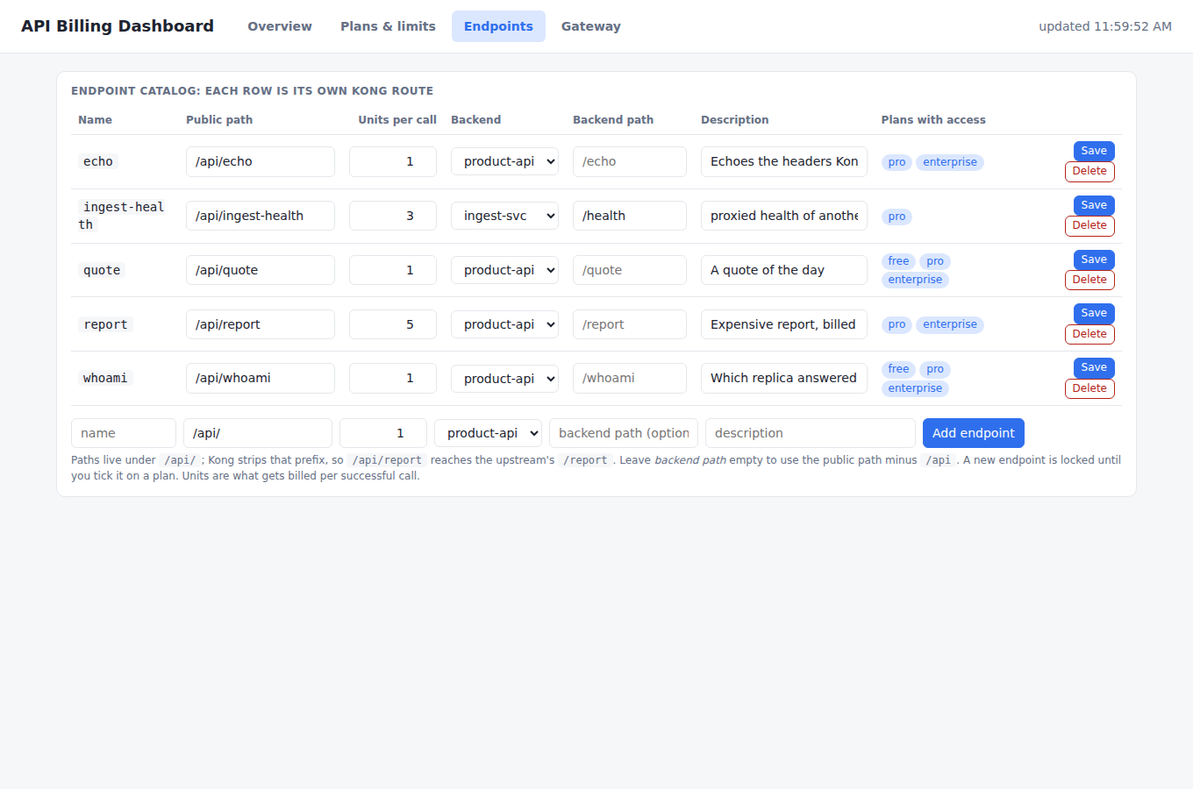
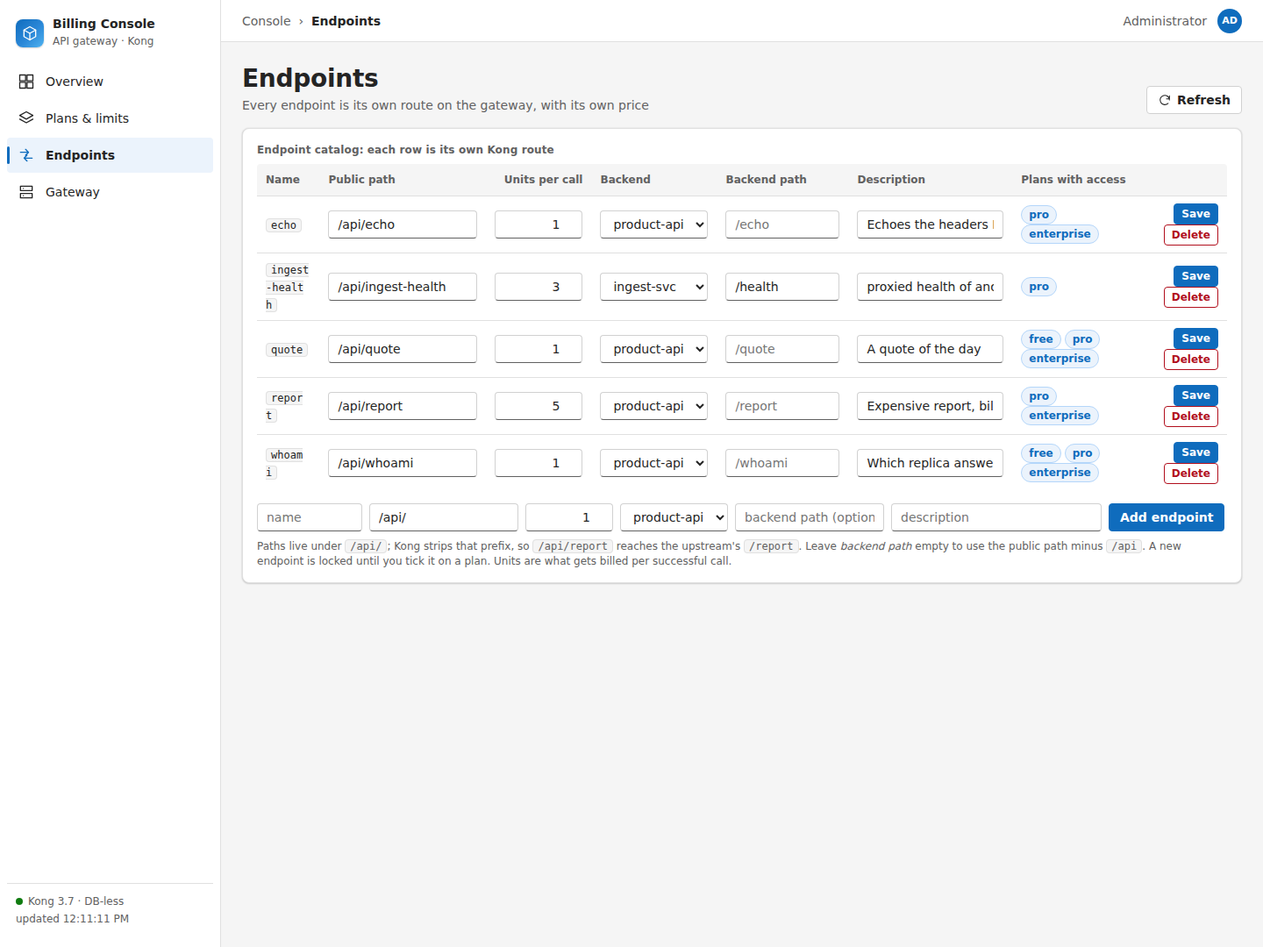
Dashboard: Fluent-inspired UI redesign (nav rail, command bar, toasts, light/dark)
- App shell with left navigation rail, top bar with breadcrumbs, page header + command bar
- Fluent-style design tokens (light and dark), data grids, persona avatars, badges, progress bars
- Toast message bars replace the top banners; responsive rail collapses to a strip on narrow screens
- Vue logic unchanged; README screenshots regenerated (adds dark theme) and design notes added

Claude-Session: https://claude.ai/code/session_01F8CYcSadj43JQgc1H9fXj5

diff --git a/services/dashboard/public/index.html b/services/dashboard/public/index.html
@@ -5,94 +5,209 @@
 <meta name="viewport" content="width=device-width, initial-scale=1">
 <title>API Billing Dashboard</title>
 <style>
+  /* Fluent-inspired design tokens (own implementation; no Microsoft assets). Light + dark. */
   :root {
-    --bg: #f6f7f9; --card: #fff; --ink: #1c2330; --muted: #667085; --line: #e4e7ec;
-    --accent: #2f6fed; --accent-soft: #dbe7ff; --ok: #16803c; --warn: #b54708; --bad: #b42318;
+    --font: "Segoe UI Variable Text", "Segoe UI", system-ui, -apple-system, "Helvetica Neue", Arial, sans-serif;
+    --bg: #f5f5f5; --card: #ffffff; --ink: #242424; --muted: #616161; --line: #e0e0e0; --line-strong: #d1d1d1;
+    --accent: #0f6cbd; --accent-hover: #115ea3; --accent-press: #0c3b5e; --accent-soft: #ebf3fc; --accent-line: #b4d6fa;
+    --ok: #107c10; --ok-bg: #f1faf1; --warn: #bc4b09; --warn-bg: #fff9f5; --bad: #b10e1c; --bad-bg: #fdf3f4;
+    --shadow: 0 0 2px rgba(0,0,0,.12), 0 1px 2px rgba(0,0,0,.14);
+    --shadow-pop: 0 0 8px rgba(0,0,0,.12), 0 8px 16px rgba(0,0,0,.14);
+    --r: 4px; --r-lg: 8px;
   }
   @media (prefers-color-scheme: dark) {
     :root {
-      --bg: #10131a; --card: #181c25; --ink: #e6e9f0; --muted: #98a2b3; --line: #2a303c;
-      --accent: #6d9bff; --accent-soft: #24345c; --ok: #4ade80; --warn: #fbbf24; --bad: #f87171;
+      --bg: #1f1f1f; --card: #292929; --ink: #ffffff; --muted: #adadad; --line: #3d3d3d; --line-strong: #525252;
+      --accent: #479ef5; --accent-hover: #62abf5; --accent-press: #2886de; --accent-soft: #0f2a44; --accent-line: #1d4b78;
+      --ok: #54b054; --ok-bg: #0e2a0e; --warn: #f7630c; --warn-bg: #3a1d0d; --bad: #dc626d; --bad-bg: #3b1214;
+      --shadow: 0 0 2px rgba(0,0,0,.24), 0 1px 2px rgba(0,0,0,.28);
+      --shadow-pop: 0 0 8px rgba(0,0,0,.3), 0 8px 16px rgba(0,0,0,.36);
     }
   }
   [v-cloak] { display: none; }
   * { box-sizing: border-box; }
-  body { margin: 0; background: var(--bg); color: var(--ink); font: 14px/1.45 system-ui, sans-serif; }
-  header { display: flex; flex-wrap: wrap; gap: 12px 24px; align-items: center; padding: 12px 24px; border-bottom: 1px solid var(--line); background: var(--card); }
-  h1 { font-size: 18px; margin: 0; }
-  h2 { font-size: 12px; margin: 0 0 8px; color: var(--muted); text-transform: uppercase; letter-spacing: .04em; }
-  h3 { font-size: 15px; margin: 0; }
-  main { padding: 20px 24px; max-width: 1280px; margin: 0 auto; }
-  .spacer { flex: 1; }
+  html { -webkit-text-size-adjust: 100%; }
+  body { margin: 0; background: var(--bg); color: var(--ink); font: 14px/20px var(--font); }
+  h1, h2, h3 { margin: 0; font-weight: 600; }
+  h2 { font-size: 12px; line-height: 16px; margin: 0 0 8px; color: var(--muted); letter-spacing: .01em; }
+  h3 { font-size: 16px; line-height: 22px; }
   .muted { color: var(--muted); }
-  nav { display: flex; gap: 4px; }
-  nav button { border: 0; background: none; padding: 8px 14px; border-radius: 6px; font-weight: 600; color: var(--muted); }
-  nav button.on { background: var(--accent-soft); color: var(--accent); }
-  .kpis { display: grid; grid-template-columns: repeat(auto-fit, minmax(170px, 1fr)); gap: 12px; margin-bottom: 16px; }
-  .card { background: var(--card); border: 1px solid var(--line); border-radius: 10px; padding: 14px 16px; }
-  .kpi b { display: block; font-size: 26px; font-variant-numeric: tabular-nums; }
-  .layout { display: grid; grid-template-columns: minmax(320px, 5fr) 7fr; gap: 16px; align-items: start; }
-  @media (max-width: 900px) { .layout { grid-template-columns: 1fr; } }
+  .spacer { flex: 1; }
+  code { background: var(--bg); border: 1px solid var(--line); padding: 0 5px; border-radius: var(--r); font: 12px/18px ui-monospace, "Cascadia Code", Consolas, monospace; word-break: break-all; }
+  :focus-visible { outline: 2px solid var(--accent); outline-offset: 1px; }
+
+  /* ---- app shell: left navigation rail + content ---- */
+  .shell { display: grid; grid-template-columns: 252px minmax(0, 1fr); min-height: 100vh; }
+  .rail { position: sticky; top: 0; height: 100vh; background: var(--card); border-right: 1px solid var(--line); display: flex; flex-direction: column; padding: 12px 8px; }
+  .brand { display: flex; gap: 10px; align-items: center; padding: 6px 10px 16px; }
+  .brand .mark { width: 32px; height: 32px; border-radius: 8px; display: grid; place-items: center; color: #fff; background: linear-gradient(135deg, #0f6cbd, #2b88d8 55%, #4fb3f0); box-shadow: var(--shadow); }
+  .brand b { display: block; font-size: 14px; line-height: 18px; }
+  .brand span { font-size: 12px; color: var(--muted); }
+  .rail nav { display: flex; flex-direction: column; gap: 2px; }
+  .navitem { position: relative; display: flex; align-items: center; gap: 12px; height: 40px; padding: 0 12px; border: 0; border-radius: var(--r); background: none; color: var(--ink); font: inherit; text-align: left; cursor: pointer; }
+  .navitem { white-space: nowrap; flex: none; }
+  .navitem:hover { background: var(--bg); }
+  .navitem.on { background: var(--accent-soft); font-weight: 600; }
+  .navitem.on::before { content: ""; position: absolute; left: 0; top: 10px; bottom: 10px; width: 3px; border-radius: 2px; background: var(--accent); }
+  .navitem.on .ic { color: var(--accent); }
+  .ic { width: 20px; height: 20px; flex: none; fill: none; stroke: currentColor; stroke-width: 1.6; stroke-linecap: round; stroke-linejoin: round; }
+  .railfoot { margin-top: auto; padding: 10px; font-size: 12px; color: var(--muted); border-top: 1px solid var(--line); }
+  .railfoot i { display: inline-block; width: 8px; height: 8px; border-radius: 50%; background: var(--ok); margin-right: 6px; }
+
+  .content { min-width: 0; }
+  .topbar { position: sticky; top: 0; z-index: 20; display: flex; align-items: center; gap: 12px; height: 48px; padding: 0 24px; background: var(--card); border-bottom: 1px solid var(--line); }
+  .crumbs { color: var(--muted); }
+  .crumbs b { color: var(--ink); font-weight: 600; }
+  main { padding: 0 24px 32px; max-width: 1400px; margin: 0 auto; }
+  .pagehead { display: flex; flex-wrap: wrap; gap: 8px 16px; align-items: flex-end; padding: 24px 0 16px; }
+  .pagehead h1 { font-size: 28px; line-height: 36px; letter-spacing: -.01em; }
+  .pagehead p { margin: 2px 0 0; color: var(--muted); }
+  .cmdbar { display: flex; flex-wrap: wrap; gap: 8px; align-items: center; }
+
+  /* ---- surfaces ---- */
+  .card { background: var(--card); border: 1px solid var(--line); border-radius: var(--r-lg); padding: 16px; box-shadow: var(--shadow); }
+  .stack > * + * { margin-top: 16px; }
+  .row { display: flex; flex-wrap: wrap; gap: 8px; align-items: center; }
+  .kpis { display: grid; grid-template-columns: repeat(auto-fit, minmax(210px, 1fr)); gap: 12px; margin-bottom: 16px; }
+  .kpi { display: flex; gap: 14px; align-items: center; }
+  .kpi .kic { width: 40px; height: 40px; border-radius: var(--r-lg); background: var(--accent-soft); color: var(--accent); display: grid; place-items: center; flex: none; }
+  .kpi .muted { display: block; font-size: 12px; line-height: 16px; }
+  .kpi b { display: block; font-size: 26px; line-height: 32px; font-weight: 600; font-variant-numeric: tabular-nums; }
+  .layout { display: grid; grid-template-columns: minmax(340px, 5fr) 7fr; gap: 16px; align-items: start; }
+  @media (max-width: 1000px) { .layout { grid-template-columns: 1fr; } }
+  .hint { font-size: 12px; line-height: 16px; color: var(--muted); margin: 8px 0 0; }
+  .empty { padding: 28px; text-align: center; color: var(--muted); }
+
+  /* ---- data grid ---- */
   table { width: 100%; border-collapse: collapse; }
-  th, td { text-align: left; padding: 7px 8px; border-bottom: 1px solid var(--line); font-variant-numeric: tabular-nums; vertical-align: middle; }
-  th { font-size: 12px; color: var(--muted); font-weight: 600; }
+  th, td { text-align: left; padding: 8px 10px; border-bottom: 1px solid var(--line); font-variant-numeric: tabular-nums; vertical-align: middle; }
+  th { font-size: 12px; font-weight: 600; color: var(--muted); background: var(--bg); white-space: nowrap; }
+  thead th:first-child { border-top-left-radius: var(--r); } thead th:last-child { border-top-right-radius: var(--r); }
+  tbody tr:last-child td { border-bottom: 0; }
   td.num, th.num { text-align: right; }
   tr.sub { cursor: pointer; }
-  tr.sub:hover, tr.sel { background: var(--accent-soft); }
-  .pill { display: inline-block; padding: 1px 8px; border-radius: 99px; font-size: 12px; background: var(--accent-soft); color: var(--accent); }
-  .pill.off { background: var(--line); color: var(--muted); }
-  .meter { height: 8px; border-radius: 4px; background: var(--line); overflow: hidden; }
-  .meter > i { display: block; height: 100%; background: var(--accent); }
+  tr.sub:hover td { background: var(--bg); }
+  tr.sel td { background: var(--accent-soft) !important; }
+  tr.sel td:first-child { box-shadow: inset 3px 0 0 var(--accent); }
+  .who { display: flex; align-items: center; gap: 10px; border-bottom: 0; }
+  td.whotd { padding: 6px 10px; }
+
+  /* ---- persona avatar, badge, progress ---- */
+  .avatar { display: inline-grid; place-items: center; width: 28px; height: 28px; border-radius: 50%; color: #fff; font-size: 11px; font-weight: 600; flex: none; }
+  .avatar.lg { width: 44px; height: 44px; font-size: 15px; }
+  .name { font-size: 20px; line-height: 28px; font-weight: 600; }
+  .pill { display: inline-block; padding: 0 8px; border-radius: 999px; font-size: 12px; line-height: 20px; font-weight: 600; background: var(--accent-soft); color: var(--accent); border: 1px solid var(--accent-line); }
+  .pill.off { background: var(--bg); color: var(--muted); border-color: var(--line); }
+  .meter { height: 4px; border-radius: 2px; background: var(--line); overflow: hidden; }
+  .meter > i { display: block; height: 100%; background: var(--accent); border-radius: 2px; }
   .meter.hot > i { background: var(--warn); }
-  input, select, button { font: inherit; padding: 6px 10px; border: 1px solid var(--line); border-radius: 6px; background: var(--card); color: var(--ink); }
-  input[type=checkbox] { padding: 0; }
-  button { cursor: pointer; }
-  button.primary { background: var(--accent); border-color: var(--accent); color: #fff; }
-  button.danger { color: var(--bad); border-color: var(--bad); }
-  button.small { padding: 2px 8px; font-size: 12px; }
-  button:disabled { opacity: .5; cursor: default; }
+  .s2xx { color: var(--ok); font-weight: 600; } .s4xx { color: var(--warn); font-weight: 600; } .s5xx { color: var(--bad); font-weight: 600; }
+
+  /* ---- buttons & inputs ---- */
+  input, select, textarea, button { font: inherit; color: var(--ink); }
+  input, select, textarea { height: 32px; padding: 0 10px; background: var(--card); border: 1px solid var(--line-strong); border-bottom-color: var(--muted); border-radius: var(--r); }
+  textarea { height: auto; padding: 6px 10px; }
+  input:hover, select:hover, textarea:hover { border-color: var(--muted); }
+  input:focus, select:focus, textarea:focus { outline: none; border-color: var(--line-strong); border-bottom: 2px solid var(--accent); padding-bottom: 0; }
+  input[type=checkbox] { height: 16px; width: 16px; accent-color: var(--accent); }
   input.n { width: 100px; text-align: right; }
-  .row { display: flex; flex-wrap: wrap; gap: 8px; align-items: center; }
-  .stack > * + * { margin-top: 16px; }
-  code { background: var(--bg); padding: 1px 6px; border-radius: 4px; word-break: break-all; }
-  .s2xx { color: var(--ok); } .s4xx { color: var(--warn); } .s5xx { color: var(--bad); }
-  .err { background: var(--bad); color: #fff; padding: 8px 24px; cursor: pointer; }
-  .ok { background: var(--ok); color: #fff; padding: 8px 24px; }
+  button { height: 32px; padding: 0 12px; background: var(--card); border: 1px solid var(--line-strong); border-radius: var(--r); font-weight: 600; cursor: pointer; display: inline-flex; align-items: center; gap: 6px; }
+  button:hover { background: var(--bg); border-color: var(--muted); }
+  button:active { background: var(--line); }
+  button.primary { background: var(--accent); border-color: var(--accent); color: #fff; }
+  @media (prefers-color-scheme: dark) { button.primary { background: #115ea3; border-color: #115ea3; } button.primary:hover { background: #0f548c; } }
+  button.primary:hover { background: var(--accent-hover); border-color: var(--accent-hover); }
+  button.primary:active { background: var(--accent-press); }
+  button.danger { color: var(--bad); border-color: var(--bad); background: transparent; }
+  button.danger:hover { background: var(--bad-bg); }
+  button.small { height: 24px; padding: 0 8px; font-size: 12px; }
+  button.subtle { border-color: transparent; background: transparent; }
+  button.subtle:hover { background: var(--bg); }
+  button:disabled { opacity: .45; cursor: default; pointer-events: none; }
+  .grid2 { display: grid; grid-template-columns: 1fr 1fr; gap: 8px 12px; }
+  .grid2 label { display: flex; flex-direction: column; gap: 4px; font-size: 12px; color: var(--muted); }
+  .grid2 input { width: 100%; text-align: left; }
+  .checks label { display: flex; gap: 8px; align-items: center; padding: 4px 0; }
+  fieldset { border: 1px solid var(--line); border-radius: var(--r-lg); margin: 12px 0 0; padding: 8px 12px 12px; }
+  legend { font-size: 12px; font-weight: 600; color: var(--muted); padding: 0 6px; }
+  .plans { display: grid; grid-template-columns: repeat(auto-fill, minmax(370px, 1fr)); gap: 16px; }
+
+  /* ---- message bars (toasts) ---- */
+  .toasts { position: fixed; top: 58px; right: 16px; z-index: 60; display: flex; flex-direction: column; gap: 8px; width: min(440px, calc(100vw - 32px)); }
+  .msg { display: flex; gap: 10px; align-items: flex-start; padding: 10px 12px; border-radius: var(--r-lg); border: 1px solid; box-shadow: var(--shadow-pop); background: var(--card); }
+  .msg.err { border-color: var(--bad); background: var(--bad-bg); }
+  .msg.err .ic { color: var(--bad); }
+  .msg.ok { border-color: var(--ok); background: var(--ok-bg); }
+  .msg.ok .ic { color: var(--ok); }
+  .msg span { flex: 1; word-break: break-word; }
   svg text { fill: var(--muted); font-size: 10px; }
   svg .bar { fill: var(--accent); }
-  .empty { padding: 24px; text-align: center; color: var(--muted); }
-  .plans { display: grid; grid-template-columns: repeat(auto-fill, minmax(360px, 1fr)); gap: 16px; }
-  .grid2 { display: grid; grid-template-columns: 1fr 1fr; gap: 8px 12px; }
-  .grid2 label { display: flex; flex-direction: column; gap: 2px; font-size: 12px; color: var(--muted); }
-  .grid2 input { width: 100%; text-align: left; }
-  .checks label { display: flex; gap: 8px; align-items: center; padding: 3px 0; }
-  fieldset { border: 1px solid var(--line); border-radius: 8px; margin: 12px 0 0; padding: 8px 12px 10px; }
-  legend { font-size: 12px; color: var(--muted); padding: 0 4px; }
-  .hint { font-size: 12px; color: var(--muted); margin: 6px 0 0; }
+  svg .bar:hover { fill: var(--accent-hover); }
+  pre { margin: 0; }
+
+  /* ---- narrow screens: rail becomes a top strip ---- */
+  @media (max-width: 860px) {
+    .shell { grid-template-columns: 1fr; }
+    .rail { position: static; height: auto; flex-direction: row; align-items: center; padding: 6px 8px; overflow-x: auto; border-right: 0; border-bottom: 1px solid var(--line); }
+    .brand { padding: 0 8px; } .brand span, .railfoot { display: none; }
+    .rail nav { flex-direction: row; }
+    .navitem.on::before { left: 10px; right: 10px; top: auto; bottom: 0; width: auto; height: 3px; }
+    .topbar { display: none; } main { padding: 0 12px 24px; }
+    .card { overflow-x: auto; }
+  }
 </style>
 </head>
 <body>
 <div id="app" v-cloak>
-  <div class="err" v-if="error" @click="error = ''" title="click to dismiss">{{ error }}</div>
-  <div class="ok" v-if="notice">{{ notice }}</div>
-  <header>
-    <h1>API Billing Dashboard</h1>
-    <nav>
-      <button v-for="t in tabs" :key="t.id" :class="{ on: tab === t.id }" @click="go(t.id)">{{ t.label }}</button>
-    </nav>
+  <div class="toasts">
+    <div class="msg err" v-if="error" role="alert">
+      <svg class="ic" viewBox="0 0 24 24"><circle cx="12" cy="12" r="9"/><path d="M12 7.5v5.5M12 16.5h.01"/></svg>
+      <span>{{ error }}</span><button class="small subtle" @click="error = ''" aria-label="Dismiss">✕</button>
+    </div>
+    <div class="msg ok" v-if="notice" role="status">
+      <svg class="ic" viewBox="0 0 24 24"><circle cx="12" cy="12" r="9"/><path d="M8 12.5l2.7 2.7L16 9.5"/></svg>
+      <span>{{ notice }}</span>
+    </div>
+  </div>
+
+  <div class="shell">
+    <aside class="rail">
+      <div class="brand">
+        <div class="mark"><svg class="ic" viewBox="0 0 24 24" style="stroke:#fff"><path d="M12 3l8 4.5v9L12 21l-8-4.5v-9z"/><path d="M12 12l8-4.5M12 12v9M12 12L4 7.5"/></svg></div>
+        <div><b>Billing Console</b><span>API gateway · Kong</span></div>
+      </div>
+      <nav aria-label="Sections">
+        <button v-for="t in tabs" :key="t.id" class="navitem" :class="{ on: tab === t.id }" @click="go(t.id)" :aria-current="tab === t.id ? 'page' : null">
+          <svg class="ic" viewBox="0 0 24 24"><path :d="t.icon"/></svg>{{ t.label }}
+        </button>
+      </nav>
+      <div class="railfoot"><i></i>Kong 3.7 · DB-less<br>{{ updated || 'connecting…' }}</div>
+    </aside>
+
+    <div class="content">
+  <div class="topbar">
+    <span class="crumbs">Console &nbsp;›&nbsp; <b>{{ page.title }}</b></span>
     <span class="spacer"></span>
-    <label v-if="tab === 'overview'">Month <input type="month" v-model="month" @change="loadOverview"></label>
-    <span class="muted">{{ updated }}</span>
-  </header>
+    <span class="muted">Administrator</span>
+    <span class="avatar" style="background:#0f6cbd">AD</span>
+  </div>
 
   <main>
+    <div class="pagehead">
+      <div><h1>{{ page.title }}</h1><p>{{ page.sub }}</p></div>
+      <span class="spacer"></span>
+      <div class="cmdbar">
+        <label v-if="tab === 'overview'" class="row muted">Month <input type="month" v-model="month" @change="loadOverview"></label>
+        <button @click="refreshAll"><svg class="ic" viewBox="0 0 24 24" style="width:16px;height:16px"><path d="M20 12a8 8 0 10-2.3 5.7M20 5v5h-5"/></svg>Refresh</button>
+      </div>
+    </div>
     <!-- ============================ OVERVIEW ============================ -->
     <template v-if="tab === 'overview'">
       <div class="kpis">
-        <div class="card kpi"><span class="muted">Subscribers</span><b>{{ fmt(totals.subscribers) }}</b></div>
-        <div class="card kpi"><span class="muted">API calls</span><b>{{ fmt(totals.calls) }}</b></div>
-        <div class="card kpi"><span class="muted">Billable units</span><b>{{ fmt(totals.units) }}</b></div>
-        <div class="card kpi"><span class="muted">Invoiced this month</span><b>{{ money(totals.revenue_cents) }}</b></div>
+        <div class="card kpi"><span class="kic"><svg class="ic" viewBox="0 0 24 24"><path d="M16 19v-1a4 4 0 00-4-4H7a4 4 0 00-4 4v1M9.5 10a3.5 3.5 0 100-7 3.5 3.5 0 000 7M21 19v-1a4 4 0 00-3-3.9M15.5 3.2a3.5 3.5 0 010 6.6"/></svg></span><div><span class="muted">Subscribers</span><b>{{ fmt(totals.subscribers) }}</b></div></div>
+        <div class="card kpi"><span class="kic"><svg class="ic" viewBox="0 0 24 24"><path d="M3 12h4l3-8 4 16 3-8h4"/></svg></span><div><span class="muted">API calls</span><b>{{ fmt(totals.calls) }}</b></div></div>
+        <div class="card kpi"><span class="kic"><svg class="ic" viewBox="0 0 24 24"><path d="M12 3l8 4.5v9L12 21l-8-4.5v-9z"/><path d="M12 12l8-4.5M12 12v9M12 12L4 7.5"/></svg></span><div><span class="muted">Billable units</span><b>{{ fmt(totals.units) }}</b></div></div>
+        <div class="card kpi"><span class="kic"><svg class="ic" viewBox="0 0 24 24"><rect x="3" y="6" width="18" height="12" rx="2"/><circle cx="12" cy="12" r="2.5"/><path d="M6.5 12h.01M17.5 12h.01"/></svg></span><div><span class="muted">Invoiced this month</span><b>{{ money(totals.revenue_cents) }}</b></div></div>
       </div>
       <div class="layout">
         <div class="stack">
@@ -102,7 +217,7 @@
               <thead><tr><th>Name</th><th>Plan</th><th class="num">Units</th><th style="width:90px">Allowance</th><th class="num">Invoice</th></tr></thead>
               <tbody>
                 <tr v-for="r in rows" :key="r.name" class="sub" :class="{ sel: r.name === selected }" @click="select(r.name)">
-                  <td>{{ r.name }}</td>
+                  <td class="whotd"><div class="who"><span class="avatar" :style="avatarStyle(r.name)">{{ initials(r.name) }}</span>{{ r.name }}</div></td>
                   <td><span class="pill">{{ r.plan }}</span></td>
                   <td class="num">{{ fmt(r.units) }}</td>
                   <td><div class="meter" :class="{ hot: r.percent_used >= 80 }" :title="r.percent_used + '% of ' + fmt(r.included)"><i :style="{ width: Math.min(r.percent_used, 100) + '%' }"></i></div></td>
@@ -126,7 +241,8 @@
         <section class="card" v-if="detail">
           <div class="stack">
             <div class="row">
-              <h1>{{ detail.name }}</h1>
+              <span class="avatar lg" :style="avatarStyle(detail.name)">{{ initials(detail.name) }}</span>
+              <h3 class="name">{{ detail.name }}</h3>
               <select :value="detail.plan" @change="changePlan(detail.name, $event.target.value)">
                 <option v-for="p in plans" :key="p.name" :value="p.name">{{ p.name }}</option>
               </select>
@@ -336,6 +452,8 @@
       </section>
     </template>
   </main>
+    </div>
+  </div>
 </div>
 
 <script src="https://unpkg.com/vue@3.4.38/dist/vue.global.prod.js"></script>
@@ -356,7 +474,15 @@ if (!window.Vue) {
 
   createApp({
     setup() {
-      const tabs = [{ id: "overview", label: "Overview" }, { id: "plans", label: "Plans & limits" }, { id: "endpoints", label: "Endpoints" }, { id: "gateway", label: "Gateway" }];
+      const tabs = [
+        { id: "overview", label: "Overview", icon: "M3 3h8v8H3zM13 3h8v8h-8zM3 13h8v8H3zM13 13h8v8h-8z", title: "Overview", sub: "Usage, invoices and API keys for every subscriber" },
+        { id: "plans", label: "Plans & limits", icon: "M12 3l9 5-9 5-9-5 9-5zM3 13l9 5 9-5", title: "Plans & limits", sub: "Pricing, rate limits and endpoint access for each plan" },
+        { id: "endpoints", label: "Endpoints", icon: "M4 8h11M11 4l4 4-4 4M20 16H9M13 12l-4 4 4 4", title: "Endpoints", sub: "Every endpoint is its own route on the gateway, with its own price" },
+        { id: "gateway", label: "Gateway", icon: "M4 4h16v6H4zM4 14h16v6H4zM8 7h.01M8 17h.01", title: "Gateway", sub: "Backends, live health and the Kong configuration in use" },
+      ];
+      const AVATARS = ["#0f6cbd", "#8764b8", "#038387", "#c239b3", "#ca5010", "#498205", "#986f0b", "#5c2e91"];
+      const initials = (n) => (n.split(/[-_ ]+/).filter(Boolean).slice(0, 2).map((p) => p[0]).join("") || n.slice(0, 2)).toUpperCase();
+      const avatarStyle = (n) => ({ background: AVATARS[[...n].reduce((h, c) => (h * 31 + c.charCodeAt(0)) >>> 0, 7) % AVATARS.length] });
       const tab = ref(location.hash.slice(1) || "overview");
       const month = ref(new Date().toISOString().slice(0, 7));
       const error = ref(""), notice = ref(""), updated = ref(""), busy = ref(false), trafficMsg = ref("");
@@ -424,6 +550,11 @@ if (!window.Vue) {
       async function reloadCatalog() { await loadOverview(); resetDrafts(); }
 
       async function loadGateway() { const g = await api("GET", "/api/gateway"); gatewayYaml.value = g.yaml; health.value = g.health; }
+      const page = computed(() => tabs.find((t) => t.id === tab.value));
+      const refreshAll = () => guarded(async () => {
+        if (tab.value === "overview") await loadOverview();
+        else { await reloadCatalog(); if (tab.value === "gateway") await loadGateway(); }
+      });
       const go = (t) => { tab.value = t; location.hash = t; if (t !== "overview") guarded(async () => { await reloadCatalog(); if (t === "gateway") await loadGateway(); }); };
       const select = (name) => { selected.value = name; refresh(); };
 
@@ -509,7 +640,7 @@ if (!window.Vue) {
       onMounted(async () => { await guarded(reloadCatalog); timer = setInterval(() => { if (tab.value === "overview") refresh(); else if (tab.value === "gateway") guarded(loadGateway); }, 5000); });
       onUnmounted(() => clearInterval(timer));
 
-      return { upstreams, upDrafts, newUp, health, gatewayYaml, endpointsOn, loadGateway, createUpstream, saveUpstream, deleteUpstream, resync, tabs, tab, month, error, notice, updated, busy, trafficMsg, rows, totals, plans, endpoints, selected, detail, revealed, newSub, keyLabel, newPlanName, newEp,
+      return { page, refreshAll, initials, avatarStyle, upstreams, upDrafts, newUp, health, gatewayYaml, endpointsOn, loadGateway, createUpstream, saveUpstream, deleteUpstream, resync, tabs, tab, month, error, notice, updated, busy, trafficMsg, rows, totals, plans, endpoints, selected, detail, revealed, newSub, keyLabel, newPlanName, newEp,
         drafts, epDrafts, fmt, money, mask, statusClass, planOf, subscribersOn, plansWith, limitsText, isDirty, resetDraft, usedPct, routes, bars,
         loadOverview, go, select, createSubscriber, changePlan, deleteSubscriber, newKey, revokeKey, rotateKeys, copy, traffic, createPlan, savePlan, deletePlan,
         createEndpoint, saveEndpoint, deleteEndpoint };

diff --git a/README.md b/README.md
@@ -10,6 +10,10 @@ created and edited in the UI. No code change, config edit or restart is needed.
 
 ![Dashboard overview](docs/img/dashboard-overview.png)
 
+<sub>The dashboard follows your OS theme. Dark mode:</sub>
+
+![Dashboard overview, dark theme](docs/img/dashboard-overview-dark.png)
+
 | | |
 |---|---|
 | **Gateway** | Kong 3.7 in **DB-less** mode (config is a generated YAML file), plus one **custom Lua plugin** |
@@ -230,7 +234,9 @@ Both run on every billable route so you can compare them (`GET :8100/compare/<su
 
 ## 4. Managing everything from the UI
 
-Open **http://localhost:3000**. Four tabs:
+Open **http://localhost:3000**. The console uses a Fluent-inspired layout: a **left navigation rail** with the four sections below,
+a top bar with breadcrumbs, a **page header with a command bar** (month picker, Refresh), and **toast message bars** that confirm each
+action or explain an error. It adapts to light/dark mode and collapses the rail into a scrolling strip on narrow screens.
 
 ### Overview: subscribers and their activity
 
@@ -519,6 +525,9 @@ the **generated Kong config** (plugin order, ACL allow-lists, limits, upstreams,
 JWT signing, the dashboard login, and the Lua event logic. CI (`.github/workflows/ci.yml`) runs the same plus `docker compose config`.
 
 Working on the UI: it is a single file, `services/dashboard/public/index.html`, with Vue 3 loaded from `unpkg.com`.
+The look is driven by a small set of design tokens at the top of its `<style>` block (colours, radii, shadows, with a dark-mode override),
+so restyling means editing those variables. The design is *inspired by* Microsoft's Fluent design language; it uses no Microsoft logos or assets, and the font
+stack starts with Segoe UI and falls back to system fonts (the screenshots above were captured on Linux, so they use the fallback).
 It is served by the dashboard container, so rebuild that image (`docker compose up -d --build dashboard`) after edits.
 
 Adding a new kind of thing to manage means: a table in `store.py`, a field group in `kong_config.py`, an endpoint in `main.py`, a proxy route in
